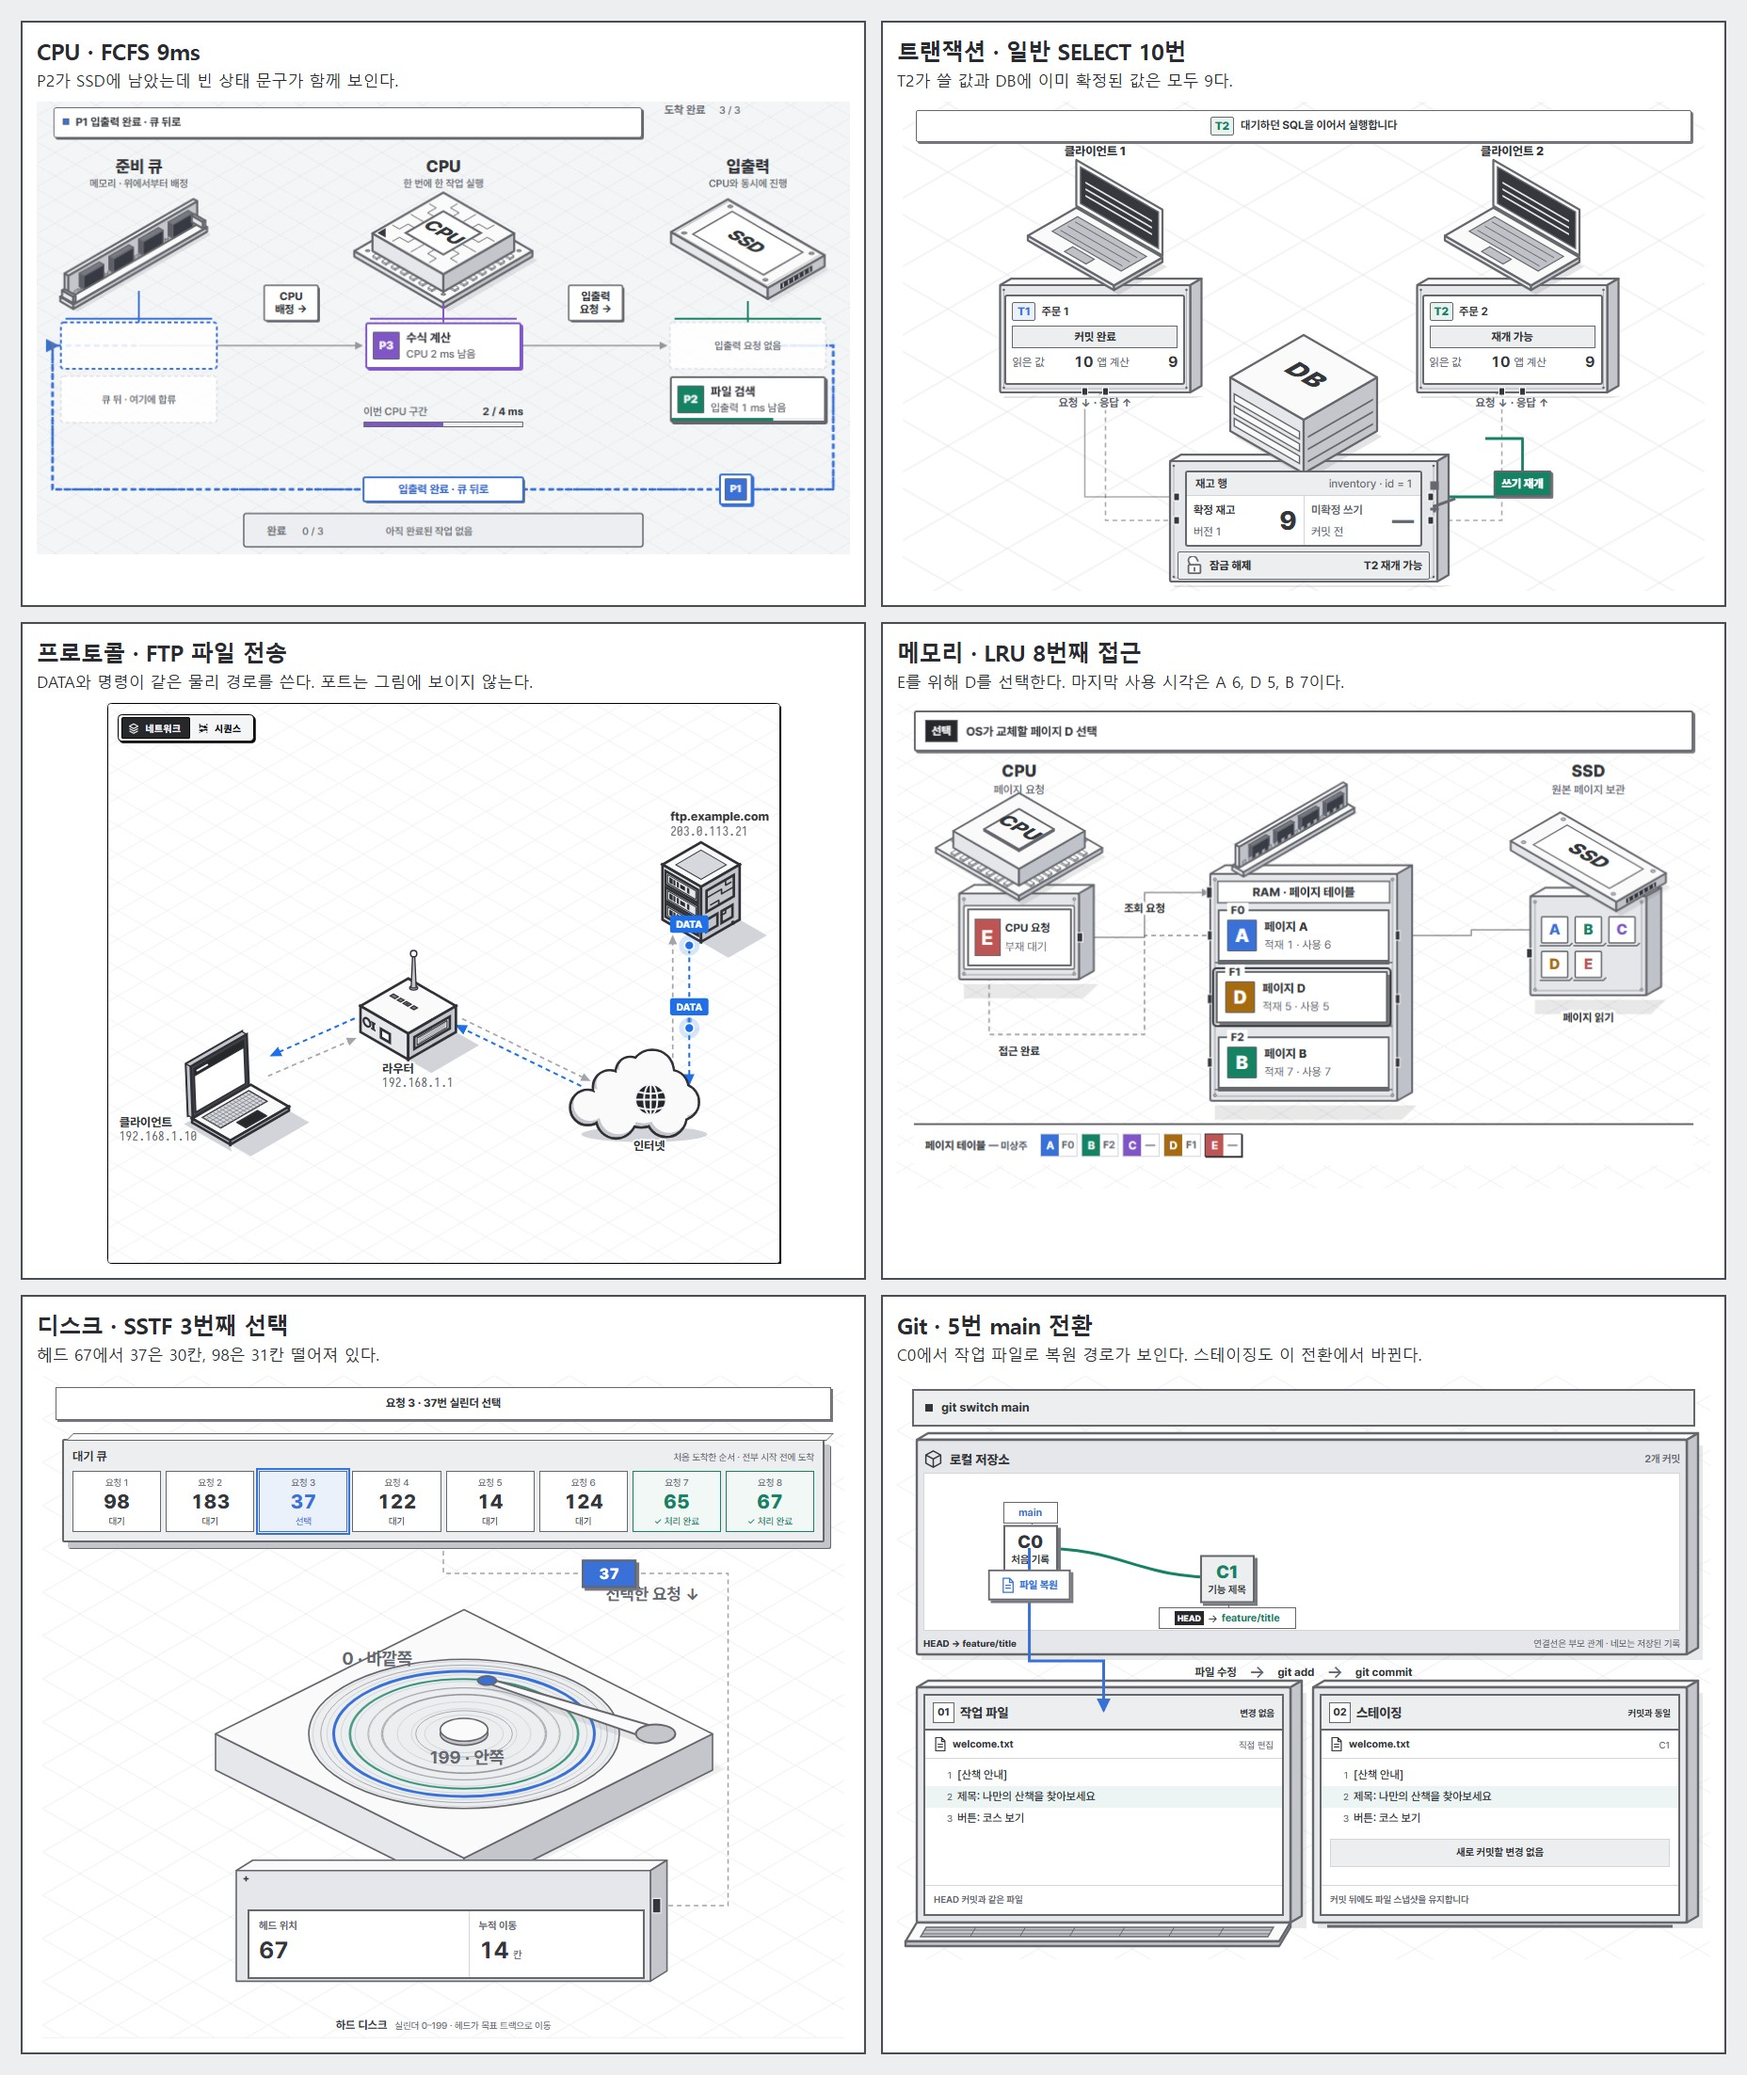
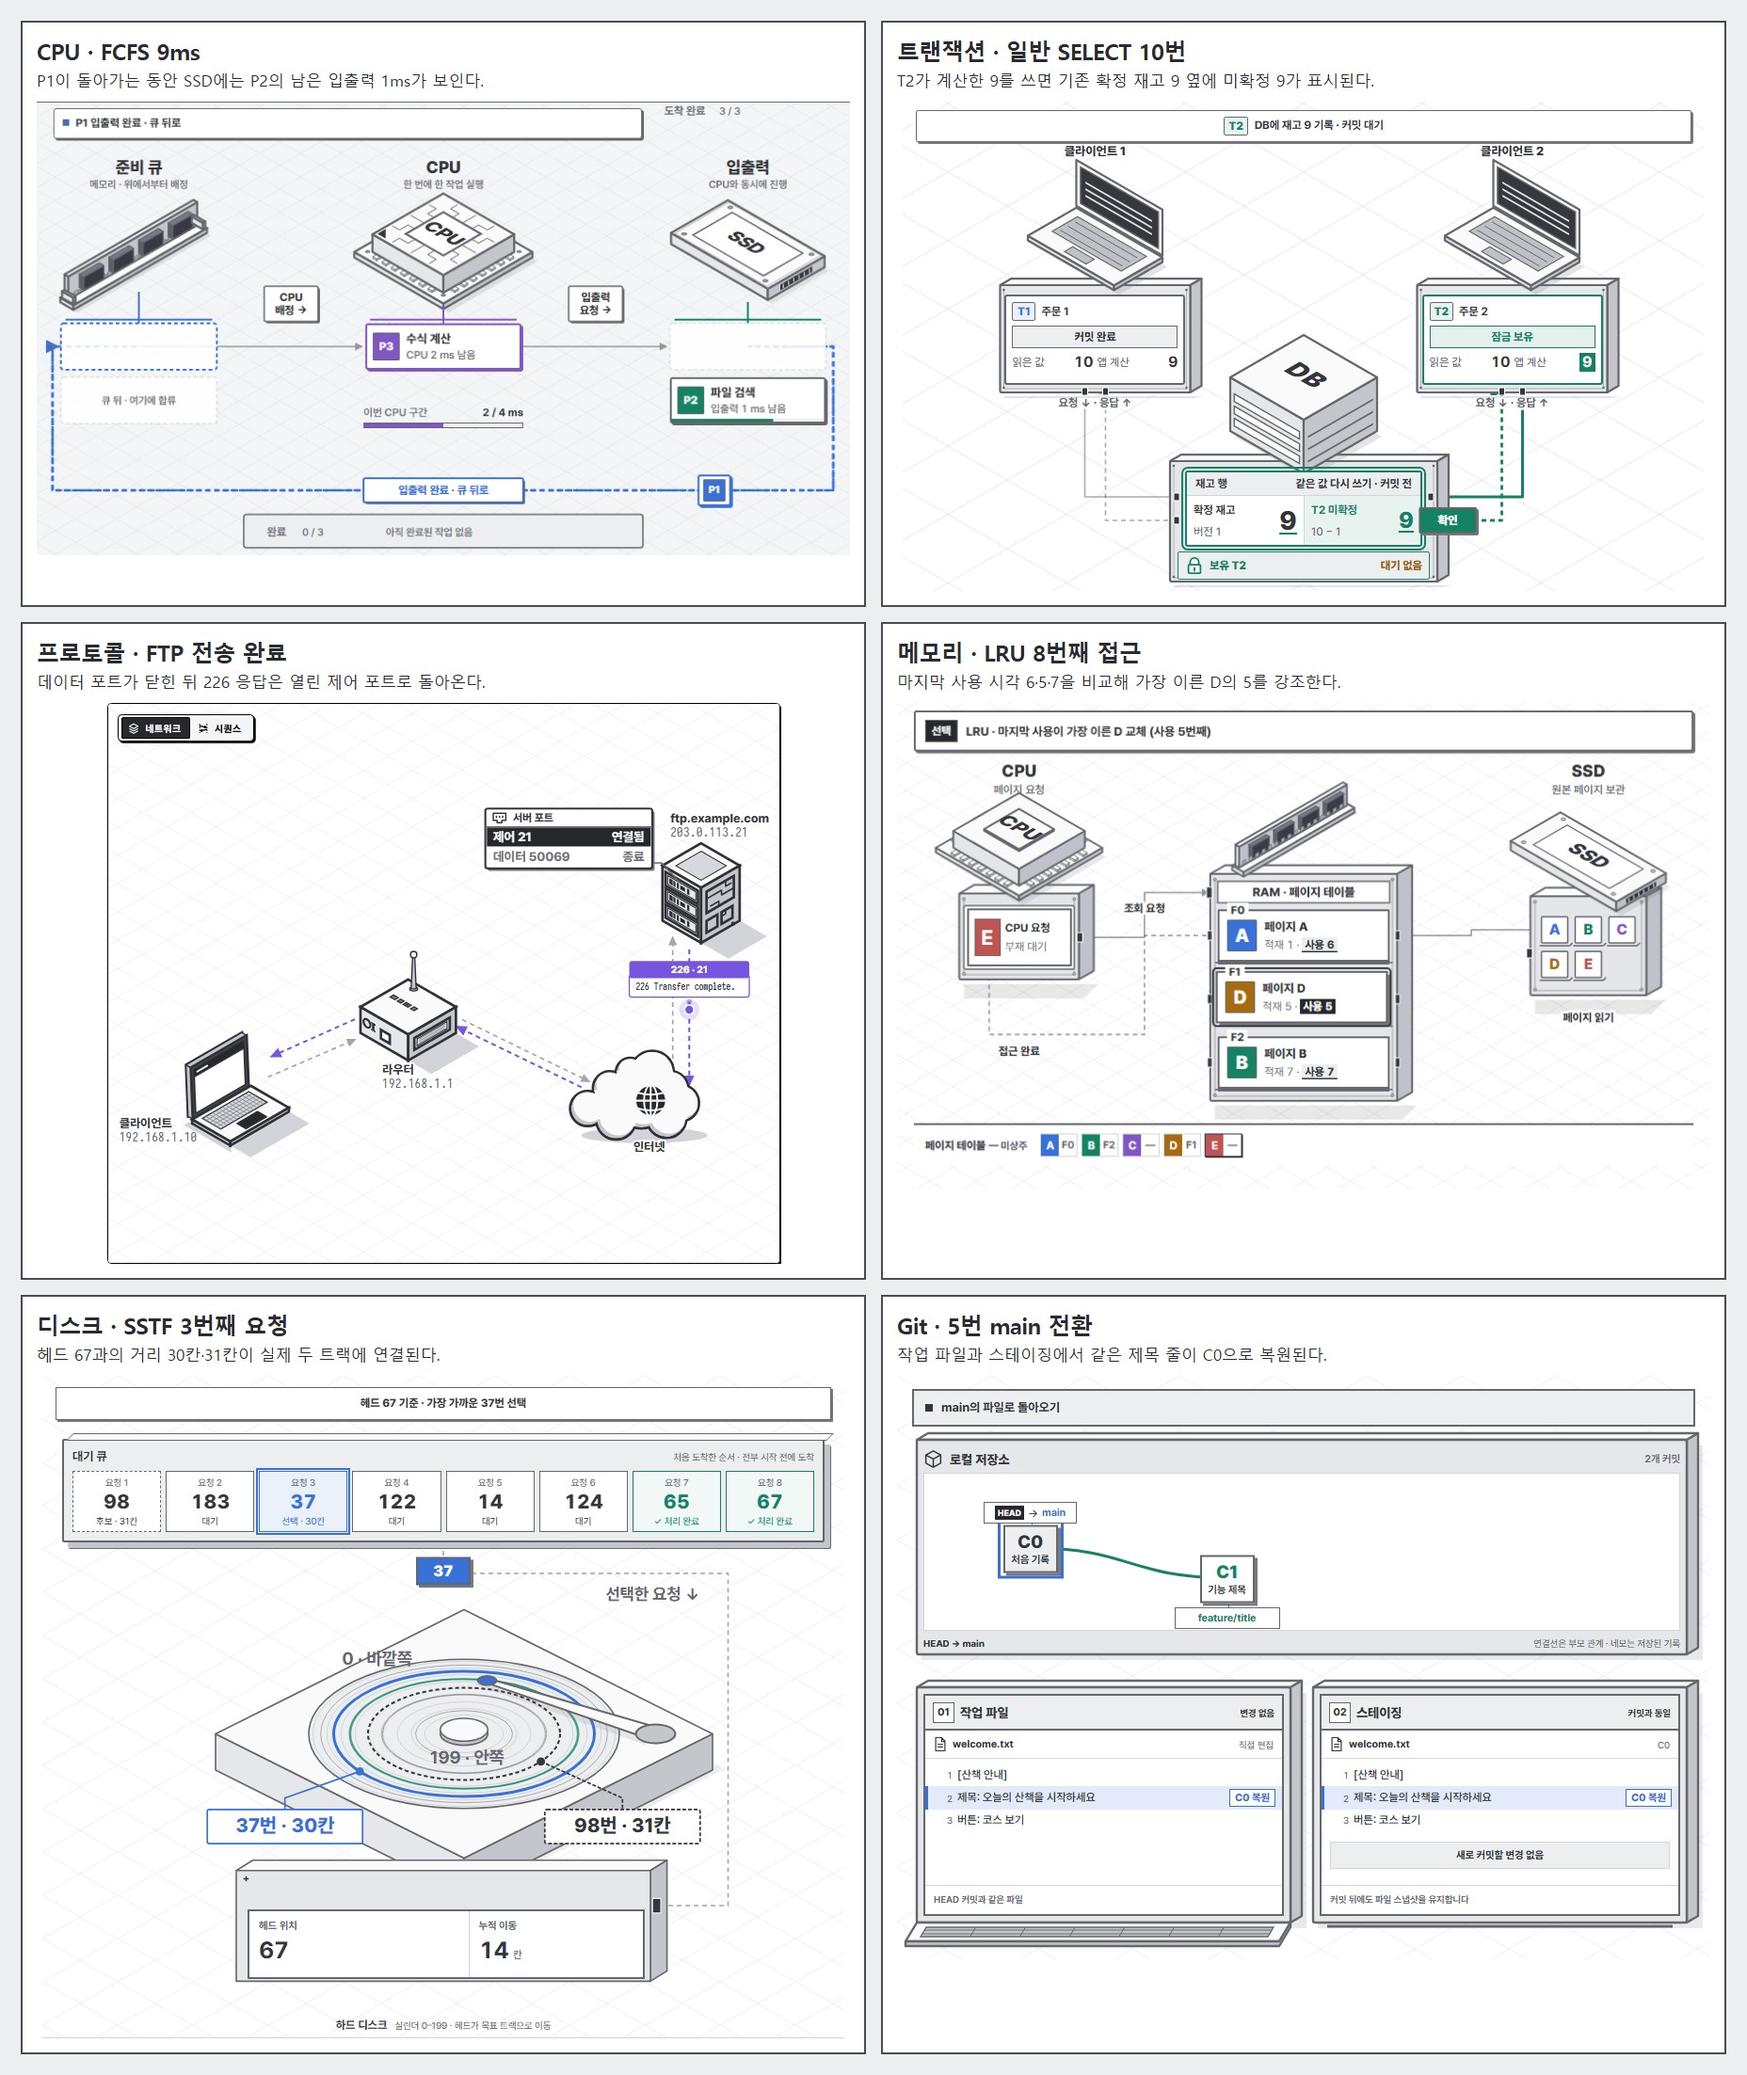
Verify visual causes in the six updated explorers

diff --git a/hub/QUALITY.md b/hub/QUALITY.md
@@ -1,28 +1,25 @@
-# 그림과 움직임만으로 본 탐색기 학습 품질
+# 해설을 가리고 확인한 여섯 탐색기
 
-2026년 11월 11일 통합본을 Chromium에서 일반 속도로 재생했다. 중앙 장면 안의 장치 라벨, 카드, 말풍선은 그대로 읽고 바깥 단계 해설과 기록 표를 가렸다. 이동 전·이동 중·도착 후의 장면을 본 다음 해설과 대조했다. 기본 화면은 1440×900이고 LRU, 디스크의 인접 트랙, 교착 해소, Git 브랜치 전환은 390×844에서도 살폈다. 초보 학습자 대상 실험 없이 화면에서 관측할 수 있는 단서를 기준으로 평가했다. [여섯 장면 실제 캡처](scene-comparison.jpg)
+2026년 11월 11일 통합본에서 이전 검수의 여섯 장면과 POP3·IMAP·SSH를 다시 재생했다. 중앙 장면의 장치, 이동 카드, 숫자만 보면서 출발 전과 도착 후를 대조했다. 기본 화면은 Chromium 1440×900이며 작은 화면은 390×844의 터치 에뮬레이션으로 확인했다. [수정 후 실제 장면 여섯 개](scene-comparison.jpg)
 
-## 먼저 고칠 세 장면
-
-| 순서 | 재현과 관측 | 바꿀 부분 |
+| 탐색기 | 다시 보는 방법 | 그림에서 확인한 변화 |
 | --- | --- | --- |
-| 1. CPU · FCFS 8→9ms | P1이 SSD에서 준비 큐로 복귀한다. SSD에는 녹색 P2 카드와 ‘입출력 1ms 남음’이 보이는데, 그 바로 위 슬롯에는 약 0.6초 동안 ‘입출력 요청 없음’도 보인다. | 남은 입출력 작업이 0개일 때만 빈 상태 문구를 표시한다. |
-| 2. 트랜잭션 · 일반 SELECT 10→11번 | T1이 재고 9를 확정했다. T2 장치에는 예전에 읽은 10과 거기서 계산한 9가 남아 있다. T2에서 DB로 가는 토큰에는 ‘쓰기 재개’만 적히고 마지막은 ‘9 → 9 확정’이다. 두 주문이 모두 커밋된 사실은 보이지만 한 번의 차감이 사라진 이유는 여러 카드의 숫자를 직접 맞춰야 읽힌다. | T2의 계산값이 ‘재고 ← 9’로 DB까지 이동하게 한다. 도착 순간 DB의 기존 9와 짝지어 보여 준다. ‘읽기부터 잠금’에서 T2가 9를 읽어 8을 쓰는 장면에도 같은 표현을 쓴다. |
-| 3. 프로토콜 · FTP 3→6단계 | 패킷 색과 화살표로 RETR 명령과 DATA의 방향은 읽힌다. 파일을 받은 뒤 FIN → 226 → QUIT → 221이 오갈 때는 모두 같은 장치와 경로를 쓴다. FIN이 데이터 연결만 닫았고 제어 연결은 살아 있어서 226과 QUIT을 주고받는다는 상태가 장치에 남지 않는다. | 서버에 ‘제어 21’과 ‘데이터 50069’ 포트를 표시한다. 패킷이 쓴 포트를 켜고 FIN 때 데이터 쪽만 닫는다. |
+| CPU | FCFS, 8ms에서 1ms 다음 | P1이 SSD에서 준비 큐로 이동하는 동안 P2가 ‘입출력 1ms 남음’으로 남아 있다. 빈 슬롯에는 글자가 없고 10ms에 P2까지 떠나면 ‘입출력 요청 없음’이 나타난다. |
+| 트랜잭션 | 일반 SELECT, 9번 다음 사건. 같은 구간을 ‘읽기부터 잠금’으로 비교 | 일반 읽기에서는 T2 장치가 계산한 9가 ‘재고 ← 9’ 카드로 이동한다. DB 도착 전에는 확정 9만 있고, 도착 후에는 확정 9와 미확정 9(10 − 1)가 나란히 표시된다. 커밋하면 이번 주문의 실제 차감은 0개다. 잠금 읽기에서는 T2가 9를 읽어 8을 쓰고 실제 차감 1개가 표시된다. |
+| 프로토콜 | FTP 3~6단계, PASV 응답에서 전송 종료까지 | 서버에 제어 21과 데이터 50069가 따로 붙는다. RETR과 응답은 21, 파일 조각과 FIN은 50069를 사용한다. 226이 돌아올 때 제어는 ‘연결됨’, 데이터는 ‘종료’다. QUIT에 대한 221 응답 뒤 제어 연결도 종료된다. |
+| 메모리 | LRU, 7번째 접근 뒤 다음 E 요청. FIFO는 첫 교체를 예측한 뒤 확인 | LRU 선택 순간 A·D·B의 마지막 사용 시각 6·5·7이 강조되고, D의 5가 반전된다. FIFO에서는 같은 자리에 있는 프레임에서 적재 시각을 비교한다. 퀴즈 답변 전에는 강조가 없다. 모션 감소나 직접 이동으로 중간 선택을 생략하면 끝난 결정의 근거를 완료 표시에서 읽을 수 있다. |
+| 디스크 | SSTF, 헤드 67에서 세 번째 요청. FCFS는 마지막 65→67 | 큐와 플래터의 같은 두 후보에 실선 ‘37번 · 30칸’과 점선 ‘98번 · 31칸’이 표시된다. 헤드가 움직이면 선택한 트랙에 방향과 거리가 남는다. 모바일에서 팔이 짧게 움직이는 65→67도 ‘안쪽 2칸’으로 읽히고 최종 누적은 640칸이다. |
+| Git | C1 기록 뒤 5번 main 전환 | C0에서 작업 파일과 스테이징으로 경로가 갈라진다. 이동 중에는 두 곳 모두 기존 C1의 제목을 유지하고 도착하면 같은 줄이 C0의 제목으로 바뀌며 각각 ‘C0 복원’이 붙는다. HEAD는 main으로 옮겨지고 feature/title은 C1에 남는다. |
 
-## 다음으로 다듬을 세 장면
+## 메일함과 터미널에 남는 결과
 
-| 순서 | 재현과 관측 | 바꿀 부분 |
-| --- | --- | --- |
-| 4. 메모리 · LRU 8번째 E | A는 1번에 적재해 6번에 사용했고, D는 5번에 적재해 5번에 사용했다. B의 마지막 사용은 7번이다. D의 테두리는 굵어지지만 ‘적재’와 ‘사용’ 숫자가 같은 비중이라 왜 가장 먼저 들어온 A를 남기는지 찾아 읽어야 한다. 5번째 D에서 FIFO는 A, LRU는 B를 선택할 때도 마찬가지였다. | 예측을 마치고 교체 대상을 결정하는 순간에만 FIFO는 적재 시각, LRU는 마지막 사용 시각을 강조한다. 프레임 위치는 유지한다. |
-| 5. 디스크 · SSTF 세 번째 요청 | 헤드 67에서 37까지 30칸, 98까지 31칸이다. 큐에는 둘 다 있지만 37에만 테두리가 생기고 플래터의 다른 후보에는 거리나 번호가 없다. 1칸 차이로 37을 택한 이유는 직접 뺄셈해야 알 수 있다. | 선택하는 순간 두 트랙과 헤드 사이에 30칸·31칸을 잠깐 표시한다. FCFS 마지막 65→67은 모바일에서 헤드 끝이 약 0.46px 움직이므로 짧은 거리 표시는 이 장면에도 도움이 된다. |
-| 6. Git · 4→5번 main 전환 | ‘파일 복원’ 카드가 C0에서 작업 파일로 간다. 도착하면 스테이징의 제목과 기준 커밋도 C1에서 C0의 내용으로 바뀌지만 스테이징으로 이어지는 동작은 없다. 390px에서도 세 영역은 화면 안에 들어왔다. | 도착할 때 작업 파일·스테이징의 바뀐 제목 줄을 함께 강조해 C0에서 두 곳을 갱신했다는 관계를 보여 준다. |
+- **POP3** — 노트북에 메일 1의 사본이 생기고, DELE 1을 서버가 받으면 서버 쪽에만 ‘삭제 예정’이 붙는다. QUIT을 받으면 서버에는 메일 2만 남고 노트북에는 메일 1 사본이 남는다.
+- **IMAP** — 읽은 메일 2가 서버와 노트북 양쪽에 남는다. 새 메일 3이 도착한 순간은 서버 3통·노트북 2통이다. 서버 알림이 노트북에 도착해야 노트북도 3통과 새 메일 +1을 표시한다.
+- **SSH** — 노트북 터미널은 각 에코가 돌아올 때 p → pw → pwd로 갱신된다. 출력 패킷이 도착한 다음 줄에 /home/alice와 새 프롬프트가 남는다.
 
-## 다른 장면에서 읽힌 것
+## 재생과 상태 확인
 
-- **프로토콜** — ICMP에서 TTL 1·2·13의 응답은 각각 집 라우터, 두 번째 홉, 서버에서 출발했다. HTTPS는 자물쇠 안의 GET과 바깥의 암호화된 바이트가 같이 움직였다. IMAP의 새 메일 도착 → 서버 발신 알림도 읽혔다. 다만 POP3에서 DELE 예약 후 QUIT으로 서버 복사본을 지운 결과와 IMAP에서 읽은 메일을 서버에 보관한 결과는 말풍선이 사라지면 비교하기 어렵다. 두 장치에 같은 메일 번호를 남겨 두면 차이가 보인다. SSH는 p·w·d와 에코가 왕복하고 서버의 출력이 돌아오는 방향은 읽혔다. 응답이 도착해도 노트북 화면에 명령이나 출력이 누적되지는 않는다.
-- **CPU·메모리** — FCFS에서 9·10ms에 준비 큐로 복귀한 P1·P2는 P3가 11ms에 작업을 마칠 때까지 기다린다. RR 할당량 5ms에서는 작업의 현재 CPU 구간과 할당량이 따로 표시된다. 메모리는 교체 중에도 F0·F1·F2가 같은 자리에 있어서 프레임과 옮겨지는 페이지를 구별할 수 있다.
-- **트랜잭션·디스크** — 교착 해소 뒤 T1의 선이 A·B 두 행에 닿고, 두 미확정 값 9·19가 한 커밋에 확정된다. 디스크 FCFS 3번째의 183→37은 팔이 크게 되돌아가 이동 방향의 반전을 볼 수 있다.
-- **Git** — 첫 분기 때 C0 하나에 브랜치 이름이 둘 붙고, 첫 편집 때 작업 파일의 제목만 달라진다. 충돌을 main 문장으로 해결하면 등록 후 HEAD와 다른 파일 0개, feature 문장을 선택하면 1개다. 두 경우 모두 C3에 두 부모가 연결돼 파일 내용의 선택과 이력 보존을 구별할 수 있었다.
-
-이번 검수 대상은 위 장면의 일반 재생과 명시한 화면 크기다. 제품 소스 변경 없이 기존 통합본으로 관찰했다.
+- CPU와 트랜잭션은 일반 재생으로 확인하고, 트랜잭션의 쓰기 요청 도중 일시정지·회전·재개·되감기를 확인했다. 미확정 값은 쓰기 요청 도착 뒤에만 표시됐다.
+- 메모리와 디스크는 결정 중에 화면 너비를 바꾸어도 선택 기준·후보·경과율이 유지됐다. 직접 단계 이동과 모션 감소 설정에서도 완료한 선택을 확인했다.
+- Git은 모바일 세로에서 복원 중 멈추고 가로로 회전한 뒤 이어서 재생했다. 일시정지 중 기록은 4건이었고, 재개 후 두 제목이 복원됐다. 뒤로 이동하면 복원 표식이 지워지고 5번을 다시 선택하면 같은 두 줄에 나타났다.
+- 여섯 앱의 자동 검사 총 82개가 통과했다. 프로토콜 26개, CPU 17개, 트랜잭션 18개, 메모리 11개, 디스크 3개, Git 7개다.
